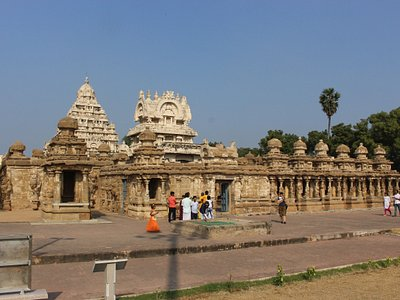
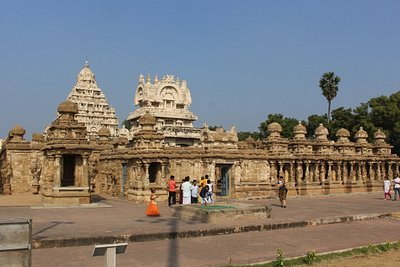
Resize the supplied city photos and add ones for Auroville, Bangalore and Bhavani
All seven supplied photos are cropped to 3:2 and saved as JPEG. The three for cities that
already had a credited photo are new bundled files listed in data/city_images_added.json;
both seeds now insert those rows when missing, so the setup button in /admin adds them on
production without touching existing rows.

Claude-Session: https://claude.ai/code/session_016mDi9AvTsnpb55Uyx9Wrjx

diff --git a/src/lib/seed.ts b/src/lib/seed.ts
@@ -5,6 +5,7 @@ import cities from '../../data/cities.json';
 import vehicles from '../../data/vehicles.json';
 import routes from '../../data/routes.json';
 import cityImages from '../../data/city_images.json';
+import addedCityImages from '../../data/city_images_added.json';
 import faqs from '../../data/faqs.json';
 import settings from '../../data/settings.json';
 
@@ -52,6 +53,8 @@ const LOADS: { table: string; rows: unknown[]; sql: string }[] = [
 /**
  * Creates any missing tables and fills the EMPTY ones with the starting data (cities, routes, vehicles, photos,
  * FAQs and settings). A table that already has rows is never touched, so running it again is harmless.
+ * The one exception is data/city_images_added.json: bundled photos added after launch, inserted when their file
+ * is not in city_images yet and the city has fewer than 3 photos. Existing rows are still never changed.
  */
 export async function seedDatabase(): Promise<Record<string, string>> {
   const statements = SCHEMA_SQL.replace(/--.*$/gm, '').split(';').map((s) => s.trim()).filter(Boolean);
@@ -71,5 +74,13 @@ export async function seedDatabase(): Promise<Record<string, string>> {
   for (const table of ['cities', 'vehicle_types', 'routes', 'city_images', 'route_faqs']) {
     await query(`SELECT setval(pg_get_serial_sequence('${table}', 'id'), COALESCE((SELECT max(id) FROM ${table}), 1))`);
   }
+  const added = await query(`INSERT INTO city_images (city_id, file_name, sort_order)
+  SELECT c.id, x.file_name, COALESCE(x.sort_order, 0)
+  FROM jsonb_to_recordset($1::jsonb) AS x(city_slug text, file_name text, sort_order int)
+  JOIN cities c ON c.slug = x.city_slug
+  WHERE NOT EXISTS (SELECT 1 FROM city_images i WHERE i.file_name = x.file_name)
+    AND (SELECT count(*) FROM city_images i WHERE i.city_id = c.id) < 3
+  RETURNING id`, [JSON.stringify(addedCityImages)]);
+  report.city_images_added = `added ${added.length} new photos`;
   return report;
 }

diff --git a/src/components/AdminPanel.tsx b/src/components/AdminPanel.tsx
@@ -92,7 +92,7 @@ export function AdminPanel({ routeCities, packages }: { routeCities: { slug: str
     }
   }
 
-  /** First-time setup for a new database: creates the tables and fills only empty ones (same as POST /api/admin/seed). */
+  /** Setup: creates the tables, fills only empty ones and adds newly bundled city photos (same as POST /api/admin/seed). Safe to run again. */
   async function setupDatabase() {
     setBusy(true);
     setError('');
@@ -347,8 +347,8 @@ export function AdminPanel({ routeCities, packages }: { routeCities: { slug: str
           <label htmlFor="token">Admin token</label>
           <input id="token" name="token" type="password" autoComplete="off" required value={token} onChange={(e) => setToken(e.target.value)} />
           <button className="btn" type="submit" disabled={busy || !token}>{busy ? 'Signing in…' : 'Sign in'}</button>
-          <button className="btn" type="button" disabled={busy || !token} onClick={setupDatabase}>Set up database (first time only)</button>
-          <p className="note">Run this once on a new site, before signing in. It only fills empty tables and never overwrites existing data.</p>
+          <button className="btn" type="button" disabled={busy || !token} onClick={setupDatabase}>Set up database / add new bundled photos</button>
+          <p className="note">Run this once on a new site, before signing in. It only fills empty tables and adds newly bundled city photos; it never overwrites existing data.</p>
           {setupMsg && <p className="note" role="status">{setupMsg}</p>}
           {error && <p className="error" role="alert">{error}</p>}
         </form>

diff --git a/CLAUDE.md b/CLAUDE.md
@@ -31,7 +31,7 @@ This file provides guidance to Claude Code (claude.ai/code) when working with co
 
 - Starting data is `data/*.json`, exported from the old MySQL database (86 cities, 244 routes, 5 vehicles, FAQs, settings). `data/vehicles.json` names the car photos in `public/media/vehicles`.
 - **`src/lib/schema-sql.ts` is a copy of `db/schema.sql`** (embedded so a route can run it). Change both together.
-- `POST /api/admin/seed` (admin token) runs the same create-and-fill as `scripts/seed.mjs` inside Vercel, filling only empty tables and never overwriting rows. Use it to seed production, since the production `DATABASE_URL` cannot be pulled to a PC.
+- `POST /api/admin/seed` (admin token) runs the same create-and-fill as `scripts/seed.mjs` inside Vercel, filling only empty tables and never overwriting rows. The exception is `data/city_images_added.json` (bundled city photos added after launch): both seeds insert those rows when the file is not in `city_images` yet and the city has fewer than 3 photos, so a new bundled photo reaches production by pressing the setup button on the `/admin` sign-in screen again. Use it to seed production, since the production `DATABASE_URL` cannot be pulled to a PC.
 - Vercel needs: `DATABASE_URL` (Neon, added from Storage), `BLOB_READ_WRITE_TOKEN` (Blob store), `ADMIN_TOKEN`, `NEXT_PUBLIC_SITE_URL`, and optionally `GOOGLE_MAPS_API_KEY`, `NEXT_PUBLIC_SUPPORT_EMAIL`, `NEXT_PUBLIC_BUSINESS_ADDRESS`, `RESEND_API_KEY`, `BOOKING_ALERT_EMAIL`. Changing an environment variable only takes effect after a redeploy. `vercel.json` pins functions to `sin1`, which should match the Neon region.
 - `cab/` (gitignored) only holds the original car photos; the app serves the copies in `public/media/vehicles`.
 - `PROJECT_GUIDE.md` is a search-by-keyword map of where to change fonts, logo, phones, colours, GST and so on. `ANDROID_APP_PLAN.md` is a not-started plan; nothing in the site depends on it.
